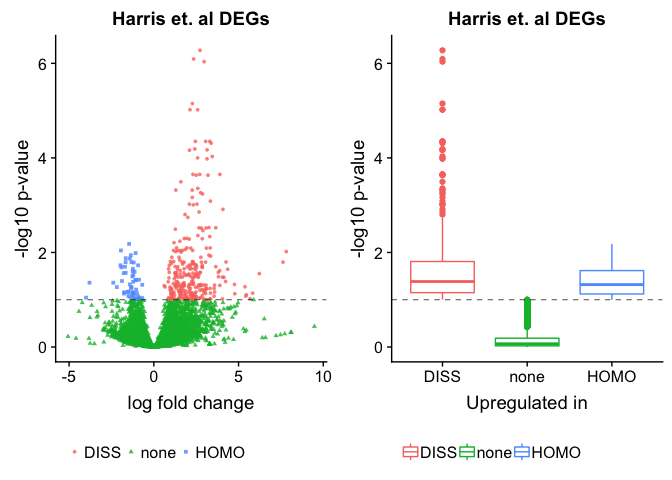
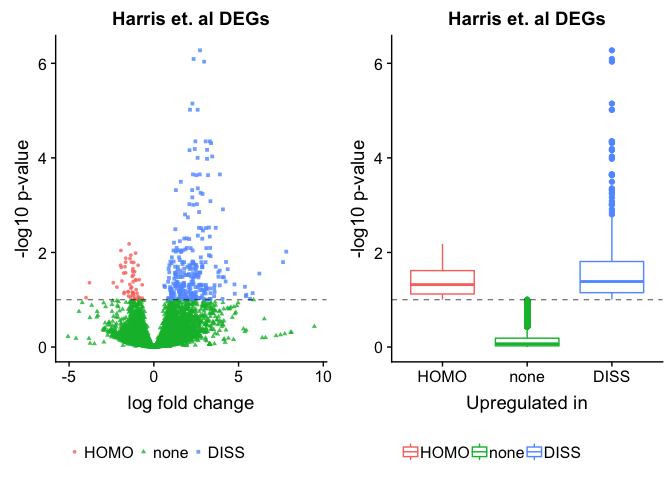
factors

diff --git a/scripts/08-genelists.md b/scripts/08-genelists.md
@@ -53,7 +53,7 @@ study compared to mine.
     ##  DISS  HOMO  none 
     ##   288    56 11813
 
-    dissociation$direction <- factor(dissociation$direction, c("DISS", "none", "HOMO"))
+    dissociation$direction <- factor(dissociation$direction, c("HOMO", "none", "DISS"))
 
 
     myboxplot <- plotboxplot(dissociation, dissociation$pvalue, 
@@ -142,33 +142,33 @@ study compared to mine.
     ## 9      Junb  lower   DISS 1.443716
     ## 10   Sh3d19  lower   DISS 1.856375
     ## 11    Enpp2  lower   DISS 4.584654
-    ## 12     Ctss higher   DISS 1.097359
-    ## 13    Csf1r higher   DISS 1.123621
-    ## 14    Rpl23 higher   DISS 1.142111
-    ## 15   Cldn11 higher   DISS 1.155499
-    ## 16    Icam1 higher   DISS 1.161201
-    ## 17     Plau higher   DISS 1.191287
-    ## 18   Slc2a5 higher   DISS 1.212306
-    ## 19     C1qa higher   DISS 1.213410
-    ## 20    Pros1 higher   DISS 1.231081
-    ## 21     C1qb higher   DISS 1.240421
-    ## 22    Spry2 higher   DISS 1.255623
-    ## 23    Lamb2 higher   DISS 1.321626
-    ## 24   Sema5a higher   DISS 1.325216
-    ## 25     Mobp higher   DISS 1.444639
-    ## 26   Slc2a1 higher   DISS 1.447714
-    ## 27   Selplg higher   DISS 1.556865
-    ## 28    Smoc2 higher   DISS 1.573106
-    ## 29     C1qc higher   DISS 1.837891
-    ## 30   Rps27a higher   DISS 1.855251
-    ## 31      Fn1 higher   DISS 3.416128
-    ## 32    Epha6 higher   HOMO 1.035578
-    ## 33   Gabrb1 higher   HOMO 1.041701
-    ## 34 Ralgapa1 higher   HOMO 1.066870
-    ## 35   Celsr2 higher   HOMO 1.340440
-    ## 36    Sorl1 higher   HOMO 1.412081
-    ## 37    Adcy9 higher   HOMO 1.480868
-    ## 38   Grin2a higher   HOMO 1.743116
+    ## 12    Epha6 higher   HOMO 1.035578
+    ## 13   Gabrb1 higher   HOMO 1.041701
+    ## 14 Ralgapa1 higher   HOMO 1.066870
+    ## 15   Celsr2 higher   HOMO 1.340440
+    ## 16    Sorl1 higher   HOMO 1.412081
+    ## 17    Adcy9 higher   HOMO 1.480868
+    ## 18   Grin2a higher   HOMO 1.743116
+    ## 19     Ctss higher   DISS 1.097359
+    ## 20    Csf1r higher   DISS 1.123621
+    ## 21    Rpl23 higher   DISS 1.142111
+    ## 22   Cldn11 higher   DISS 1.155499
+    ## 23    Icam1 higher   DISS 1.161201
+    ## 24     Plau higher   DISS 1.191287
+    ## 25   Slc2a5 higher   DISS 1.212306
+    ## 26     C1qa higher   DISS 1.213410
+    ## 27    Pros1 higher   DISS 1.231081
+    ## 28     C1qb higher   DISS 1.240421
+    ## 29    Spry2 higher   DISS 1.255623
+    ## 30    Lamb2 higher   DISS 1.321626
+    ## 31   Sema5a higher   DISS 1.325216
+    ## 32     Mobp higher   DISS 1.444639
+    ## 33   Slc2a1 higher   DISS 1.447714
+    ## 34   Selplg higher   DISS 1.556865
+    ## 35    Smoc2 higher   DISS 1.573106
+    ## 36     C1qc higher   DISS 1.837891
+    ## 37   Rps27a higher   DISS 1.855251
+    ## 38      Fn1 higher   DISS 3.416128
 
 ### Cho et al. data at 30 min
 
